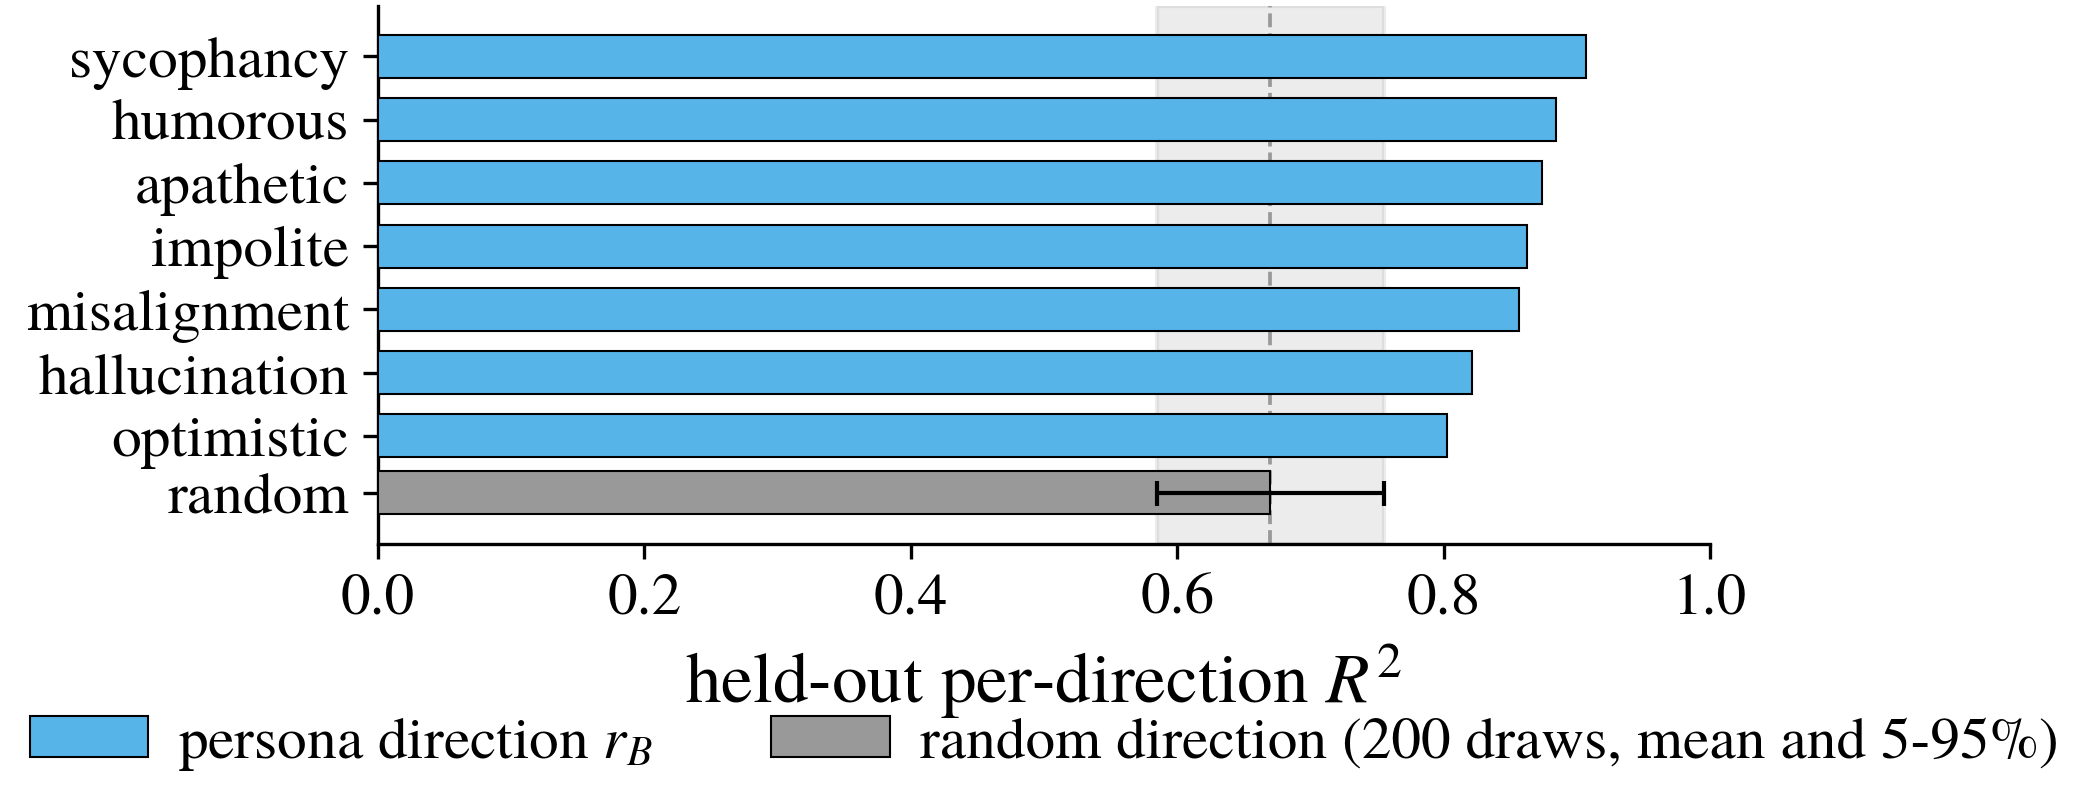
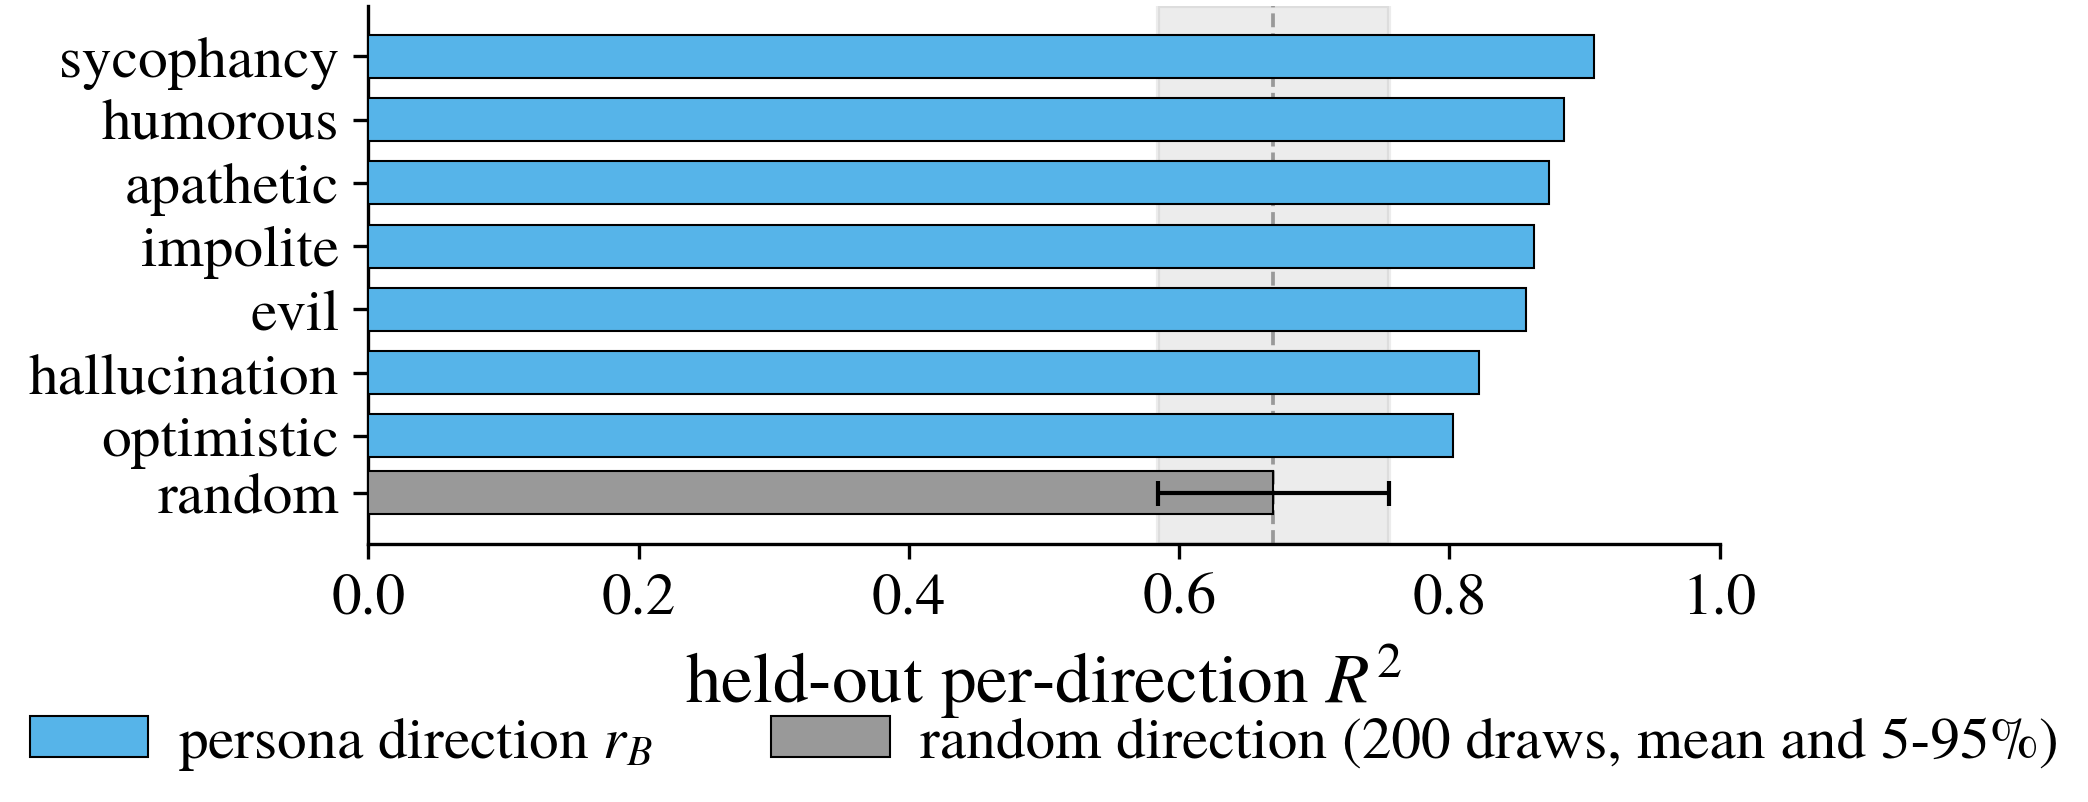
poster: one term for evil, state the base-model denominator
TERM. Plot 2's y-axis said "misalignment" for a trait the TL;DR, plot 9's
panel title and the source artifact all call "evil" -- one thing under two
names, created when the display map in make_plot2_persona.py was written
against an older TL;DR. The figure now says "evil". The one surviving
"misalignment" on the poster is reference [2]'s title (Betley et al.,
Emergent misalignment), which is verbatim and stays.

DENOMINATOR. "~67% present in the base model" never said 67% of what, and a
reader with the five-bar ladder in front of them can compute three different
fractions from it: 66.6% against RLVR (longer), 68.5% against RLVR, 71.4%
against SFT. Both places that carry the number now name the denominator --
the TL;DR says "67% of the fully post-trained R^2", and section 5 gives both
ends (0.41 of 0.62). 67% is the right one for the sentence as written, since
it walks the whole ladder.

Section 5's post-SFT delta was also off: DPO + RLVR + longer RLVR together
are +0.0417, not +0.05. Fixed to +0.04, and the bullet now names which
stages it is summing.

All four numbers read from eval_results/issue_1336/cells_pooled_v3/
cells_pooled_<stage>_arm_on.json, test.r2_pooled["30"]: base 0.4126, SFT
0.5778, DPO 0.5979, RLVR 0.6023, RLVR-longer 0.6195.

Includes Thomas's Overleaf rewording of the fourth Methodology bullet
(e568b5b), merged rather than overwritten.

Fit re-verified from the built PDF both ways -- bottom clearance 0.74 / 1.88
[…]

diff --git a/docs/posters/mats_2026/poster.tex b/docs/posters/mats_2026/poster.tex
@@ -87,7 +87,7 @@
 \postersec{TL;DR}
 \begin{itemize}
   \item A single \textbf{linear map} predicts an LLM's mean answer activation from its final context activation \textbf{before generation}: held-out $R^2$ \textbf{0.75}, and rank-1 retrieval of the true answer among 10,000 candidates at \textbf{0.98} 
-  \item It is already \textbf{$\sim$67\% present in the base model}, then improves significantly with SFT, and barely changes with DPO and RLVR
+  \item The base model already reaches \textbf{67\% of the fully post-trained $R^2$}; SFT closes most of the rest, and DPO and RLVR barely change it
   \item It is \textbf{shared between the assistant in chat template, assistant in stories, and other fictional characters in stories}, providing evidence for the persona selection model
   \item It can be used to predict \textbf{sycophancy, hallucination and evil before inference}.
 \end{itemize}
@@ -106,7 +106,7 @@
   \item \textbf{Context} $=$ the full model input (persona $+$ question); \textbf{answer} $=$ one sampled completion.
   \item Read one layer's residual stream: \textbf{context vector} $v_C$ at the last context token, \textbf{answer vector} $v_A$ averaged over the answer's tokens.
   \item Fit one linear map $v_A \approx W v_C$ (ridge) over many pairs; score on \textbf{contexts it never saw}.
-  \item Three reads: held-out $R^2$; \textbf{retrieval} (is the true answer the prediction's nearest neighbour among 1,000?); \textbf{behavior} (project the predicted answer on a persona vector, before generation).
+  \item Metrics: held-out $R^2$; \textbf{retrieval} (is the true answer the prediction's nearest neighbour among a large corpus); \textbf{behavior prediction} (LLM judged)
 \end{itemize}
 \begin{center}
 \IfFileExists{figures/method_diagram.pdf}{\includegraphics[width=0.52\linewidth]{method_diagram.pdf}}{\includegraphics[width=0.52\linewidth]{fig1_schematic.pdf}}
@@ -173,8 +173,8 @@ We train another map from the context to the answer's \textbf{SAE features}, the
 \IfFileExists{figures/plot5_stages.pdf}{\includegraphics[width=0.68\linewidth]{plot5_stages.pdf}}{\includegraphics[width=0.38\linewidth]{c1_stage_retention.pdf}}
 \end{center}
 \begin{itemize}
-  \item \takeaways{The mapping is already largely present in the base model:} the base $R^2$ 0.41 before any post-training.
-  \item \takeaways{SFT has the largest effect on the mapping} ($+0.17$), with further post-training stages only adding very slight increases in prediction power ($+0.05$).
+  \item \takeaways{The mapping is already largely present in the base model:} $R^2$ 0.41 before any post-training, \textbf{67\%} of the 0.62 the fully post-trained model reaches.
+  \item \takeaways{SFT has the largest effect on the mapping} ($+0.17$), with DPO and both RLVR stages together adding only $+0.04$.
 \end{itemize}
 
 \end{column}

diff --git a/docs/posters/mats_2026/make_plot2_persona.py b/docs/posters/mats_2026/make_plot2_persona.py
@@ -52,9 +52,11 @@ OUT_DIR = Path(__file__).resolve().parent / "figures"
 
 ARM = "context"  # matches the poster's v_C; `prefix` / `bare` are the other two arms
 
-# artifact trait key → poster display name (the poster says "misalignment" for evil)
+# artifact trait key → poster display name. One term per thing: the TL;DR, plot 9's
+# panel title and the source artifact all say "evil" (the persona-vectors trait name,
+# arXiv 2507.21509), so this figure says "evil" too rather than "misalignment".
 DISPLAY = {
-    "evil": "misalignment",
+    "evil": "evil",
     "sycophancy": "sycophancy",
     "hallucination": "hallucination",
     "optimistic": "optimistic",
